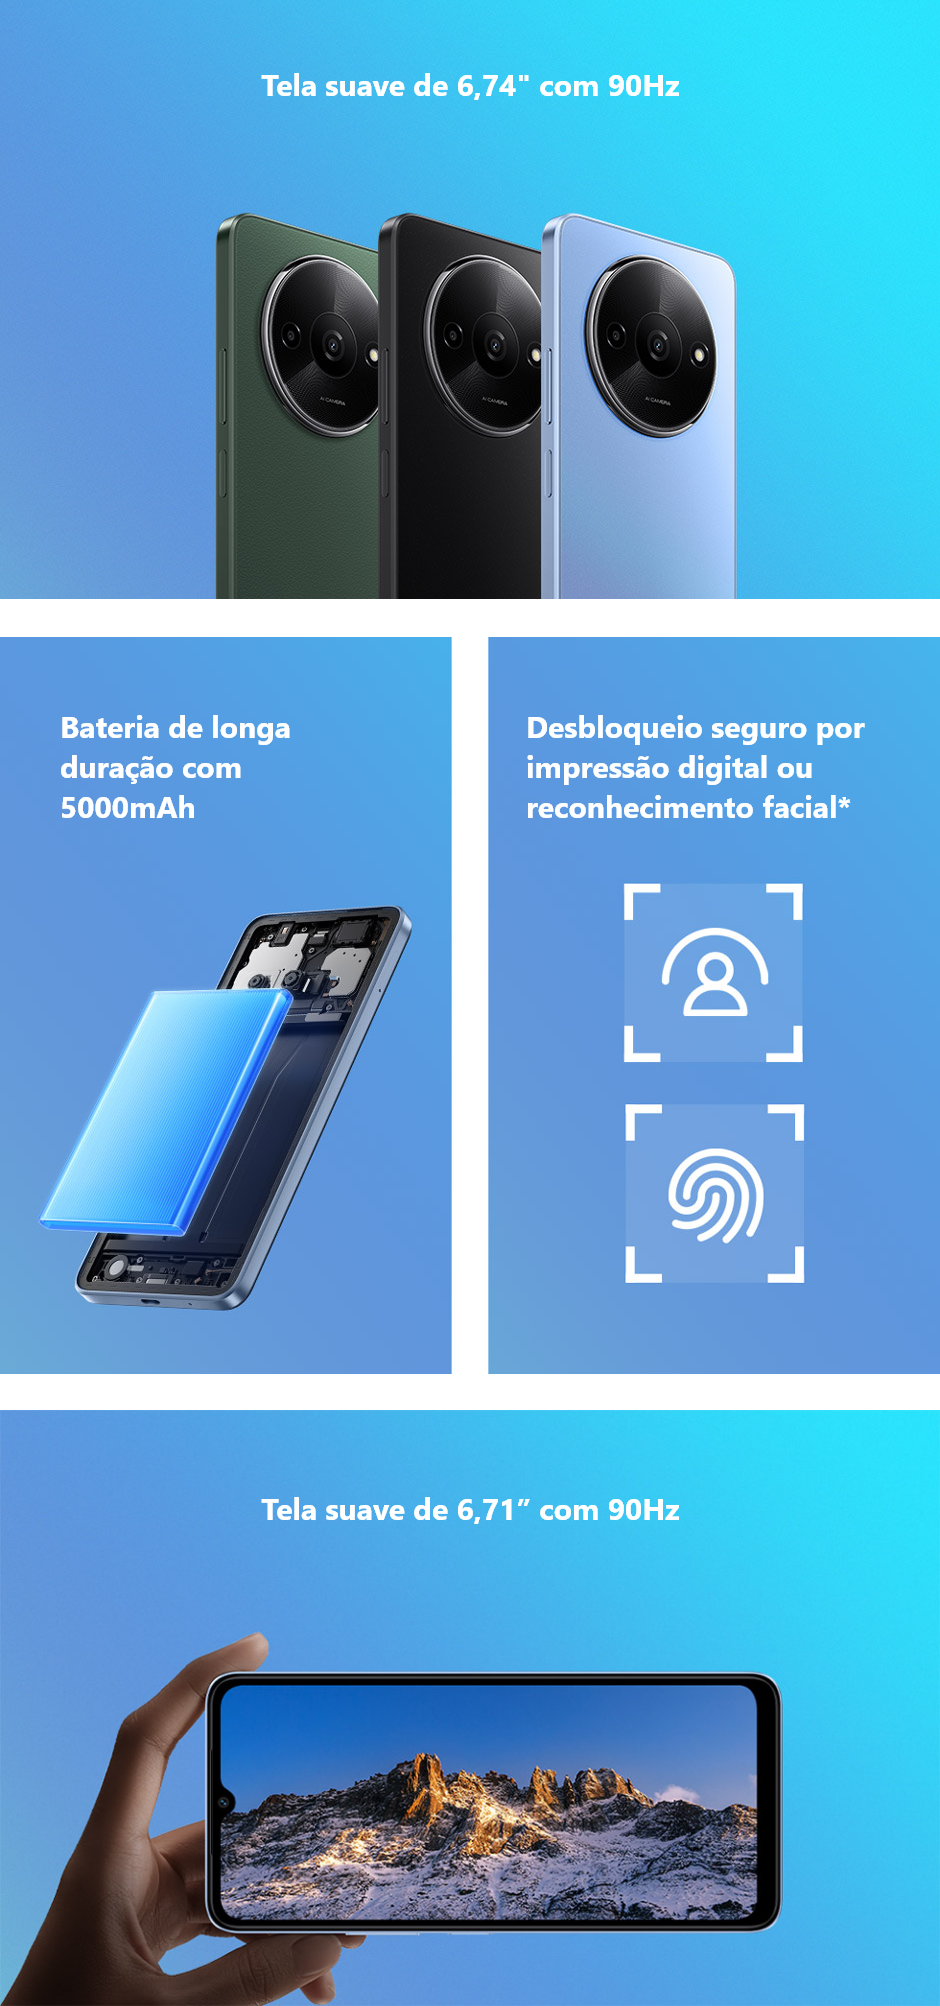
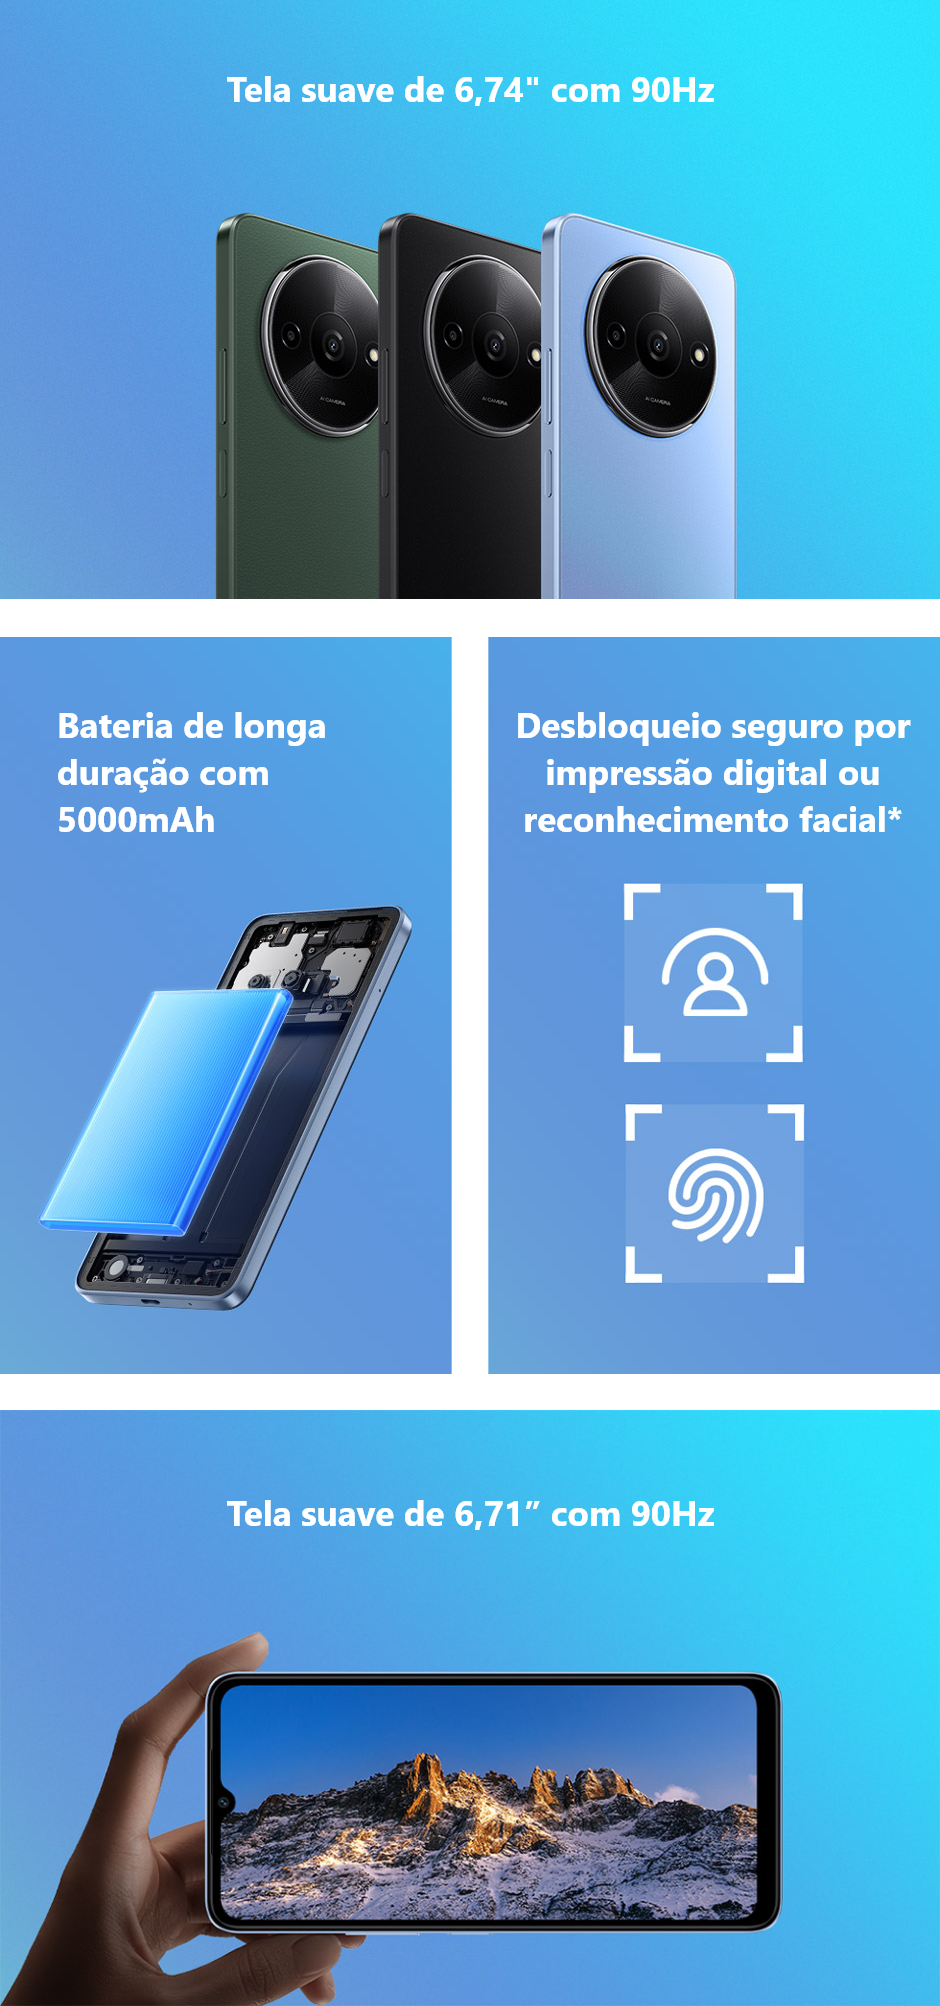
vs01

diff --git a/css/main.css b/css/main.css
@@ -461,7 +461,7 @@ background-repeat: no-repeat;
 background-size: 150% 150%;
 color: #000;
 font-family: 'CamphorPro', sans-serif;
-font-size: 4.5rem;
+font-size: 3.5rem;
 font-weight: bold;
 letter-spacing: 0;
 text-align: center;
